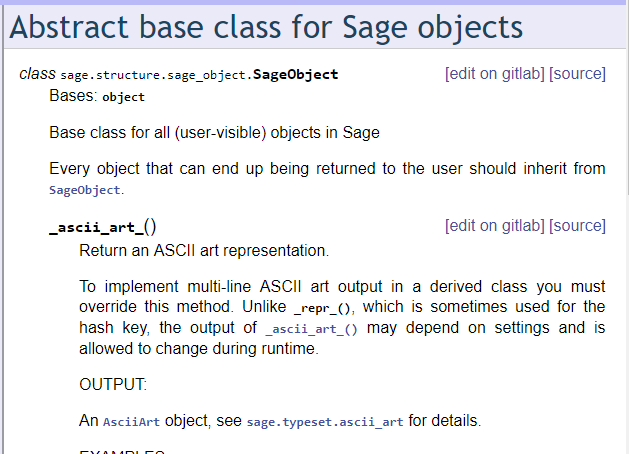
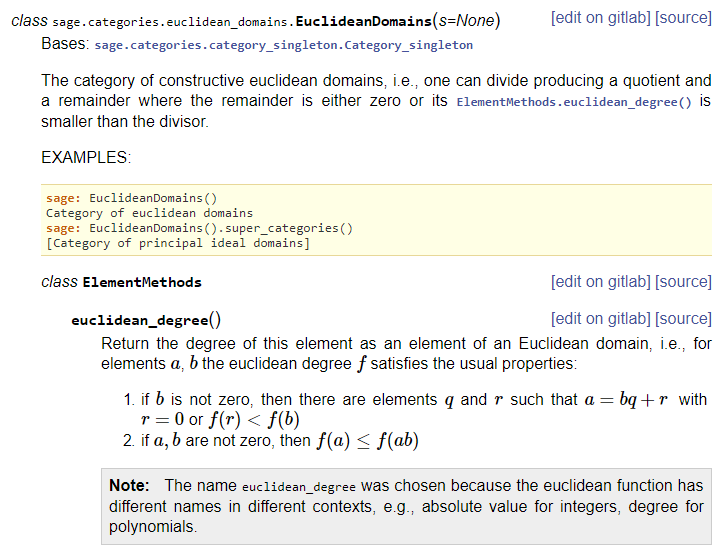
changed screenshot to a slightly more 'interesting' example (though I am open to other suggestions) and added a screenshot of the view from GitLab

diff --git a/WP3/D3.5/status-report.tex b/WP3/D3.5/status-report.tex
@@ -359,36 +359,40 @@ added\footnote\url{https://trac.sagemath.org/ticket/25914}} two new hyperlinks
 that appear in the headings of the API documentation for all classes, methods,
 functions, and other documented objects in Sage.
 
-\TODO{could we choose another screenshot, maybe of some function with
-  mathematical relevance, some mathjax formulae and examples?
-  Something we would be proud to highlight as good documentation?}
-
 \begin{figure}[!ht]
     \centering
-    \includegraphics{screenshots/source-links}
-    \caption{Source links for API documentation}
+    \includegraphics[width=\textwidth]{screenshots/source-links}
+    \caption{Example Sage API documentation with new source links.}
     \label{fig:source-links}
 \end{figure}
 
 The {\tt [source]} link displays the source code (in this case for the {\tt
-Integer} class) \TODO{SageObject in the current figre} in the context of the source file it's defined in, without
-leaving the Sage documentation site (\url{http://doc.sagemath.org}).  The
-second link, {\tt [edit on gitlab]}, is what partially motivates having a
+EuclideanDomains} class) in the context of the source file it's defined in,
+without leaving the Sage documentation site (\url{http://doc.sagemath.org}).
+The second link, {\tt [edit on gitlab]}, is what partially motivates having a
 mirror of the Sage repository hosted on GitLab, with the ability to accept
 merge requests, as described in the previous section.  This feature is inspired
 by a similar feature used by the Astropy project in its API
-documentation\footnote{e.g.~\url{http://docs.astropy.org/en/stable/api/astropy.units.Quantity.html\#astropy.units.Quantity}}.
+documentation\footnote{See for example \url{http://docs.astropy.org/en/stable/api/astropy.units.Quantity.html\#astropy.units.Quantity}}.
 
 This link opens the source file containing the object in question (e.g.~{\tt
-Integer}) in the source code browser for the Sage project on GitLab.  Users
-who are logged into, or who subsequently log into their GitLab accounts, then
-have the option to edit that source file directly in the browser using the
-web-based code editor provided by GitLab.  Because most users do not have
-permission to edit the Sage source code directly, when they save their changes
-this results in a Git commit to the user's personal copy of the repository,
-and a {\em merge request} is opened in the main Sage repository.  With the
-GitLab-Trac integration this also results in a ticket on Sage's Trac for the
-requested changes to the code and/or documentation.
+EuclideanDomains}) in the source code browser for the Sage project on GitLab
+(see Figure \ref{fig:edit-on-gitlab}).  Users who are logged into, or who
+subsequently log into their GitLab accounts, then have the option to edit that
+source file directly in the browser using the web-based code editor provided by
+GitLab.  Because most users do not have permission to edit the Sage source code
+directly, when they save their changes this results in a Git commit to the
+user's personal copy of the repository, and a {\em merge request} is opened in
+the main Sage repository.  With the GitLab-Trac integration this also results
+in a ticket on Sage's Trac for the requested changes to the code and/or
+documentation.
+
+\begin{figure}[!ht]
+    \centering
+    \includegraphics[width=\textwidth]{screenshots/edit-on-gitlab}
+    \caption{Editing Sage source code on GitLab via documentation link.}
+    \label{fig:edit-on-gitlab}
+\end{figure}
 
 In addition to API documentation, much of which is automatically generated from
 the source code, Sage also has a large amount of prose documentation in English
